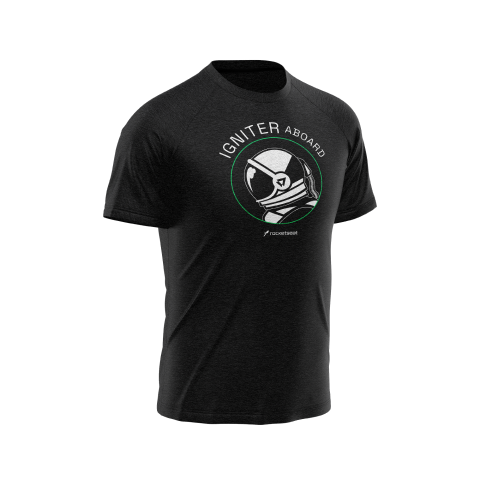
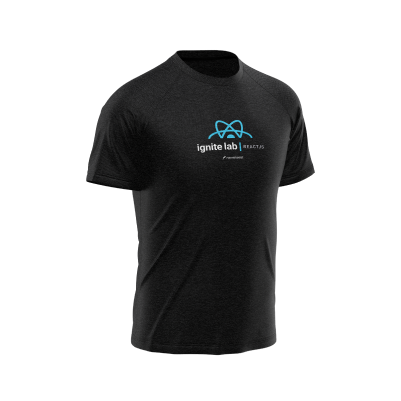
list products stripe

Changed region(s): [[0.4489, 0.2394, 0.6883, 0.5087]]

diff --git a/src/pages/index.tsx b/src/pages/index.tsx
@@ -4,14 +4,21 @@ import { useKeenSlider } from 'keen-slider/react';
 
 import { HomeContainer, Product } from '../styles/pages/home';
 
-import camiseta1 from '../assets/camisetas/1.png';
-import camiseta2 from '../assets/camisetas/2.png';
-import camiseta3 from '../assets/camisetas/3.png';
-
 import 'keen-slider/keen-slider.min.css';
+import { stripe } from '../lib/stripe';
+import { GetServerSideProps } from 'next';
+import Stripe from 'stripe';
 
+interface HomeProps {
+  products: {
+    id: string,
+    name: string,
+    imageUrl: string,
+    price: number,
+  }[]
+}
 
-export default function Home() {
+export default function Home({ products }: HomeProps) {
   const [sliderRef] = useKeenSlider({
     slides: {
       perView: 3,
@@ -21,46 +28,41 @@ export default function Home() {
 
   return (
     <HomeContainer ref={sliderRef} className='keen-slider'>
-      <Product className='keen-slider__slide' >
-        <Image src={camiseta1} width={520} height={480} alt='' />
+      {products.map(product => {
+        return (
+          <Product key={product.id} className='keen-slider__slide' >
+            <Image src={product.imageUrl} width={520} height={480} alt='' />
 
-        <footer>
-          <strong>Camiseta x</strong>
-          <span>R$ 79,90</span>
-        </footer>
-      </Product>
-      <Product className='keen-slider__slide' >
-        <Image src={camiseta2} width={520} height={480} alt='' />
-
-        <footer>
-          <strong>Camiseta x</strong>
-          <span>R$ 79,90</span>
-        </footer>
-      </Product>
-      <Product className='keen-slider__slide' >
-        <Image src={camiseta3} width={520} height={480} alt='' />
-
-        <footer>
-          <strong>Camiseta x</strong>
-          <span>R$ 79,90</span>
-        </footer>
-      </Product>
-      <Product className='keen-slider__slide' >
-        <Image src={camiseta3} width={520} height={480} alt='' />
-
-        <footer>
-          <strong>Camiseta x</strong>
-          <span>R$ 79,90</span>
-        </footer>
-      </Product>
-      <Product className='keen-slider__slide' >
-        <Image src={camiseta3} width={520} height={480} alt='' />
-
-        <footer>
-          <strong>Camiseta x</strong>
-          <span>R$ 79,90</span>
-        </footer>
-      </Product>
+            <footer>
+              <strong>{product.name}</strong>
+              <span>R$ {product.price}</span>
+            </footer>
+          </Product>
+        );
+      })}
     </HomeContainer>
   );
 }
+
+export const getServerSideProps: GetServerSideProps = async () => {
+  const response = await stripe.products.list({
+    expand: ['data.default_price']
+  });
+
+  const products = response.data.map(product => {
+    const price = product.default_price as Stripe.Price;
+    return {
+      id: product.id,
+      name: product.name,
+      imageUrl: product.images[0],
+      price: price.unit_amount,
+    };
+  });
+
+  console.log(response.data);
+  return {
+    props: {
+      products,
+    }
+  };
+};

diff --git a/next.config.js b/next.config.js
@@ -1,6 +1,11 @@
 /** @type {import('next').NextConfig} */
 const nextConfig = {
   reactStrictMode: true,
-}
+  images: {
+    domains: [
+      'files.stripe.com',
+    ]
+  }
+};
 
-module.exports = nextConfig
+module.exports = nextConfig;

diff --git a/src/lib/stripe.ts b/src/lib/stripe.ts
@@ -1,0 +1,8 @@
+import Stripe from 'stripe';
+
+export const stripe = new Stripe(process.env.SRTIPE_SECRET_KEY, {
+  apiVersion: '2022-11-15',
+  appInfo: {
+    name: 'Ignite Store',
+  }
+});
